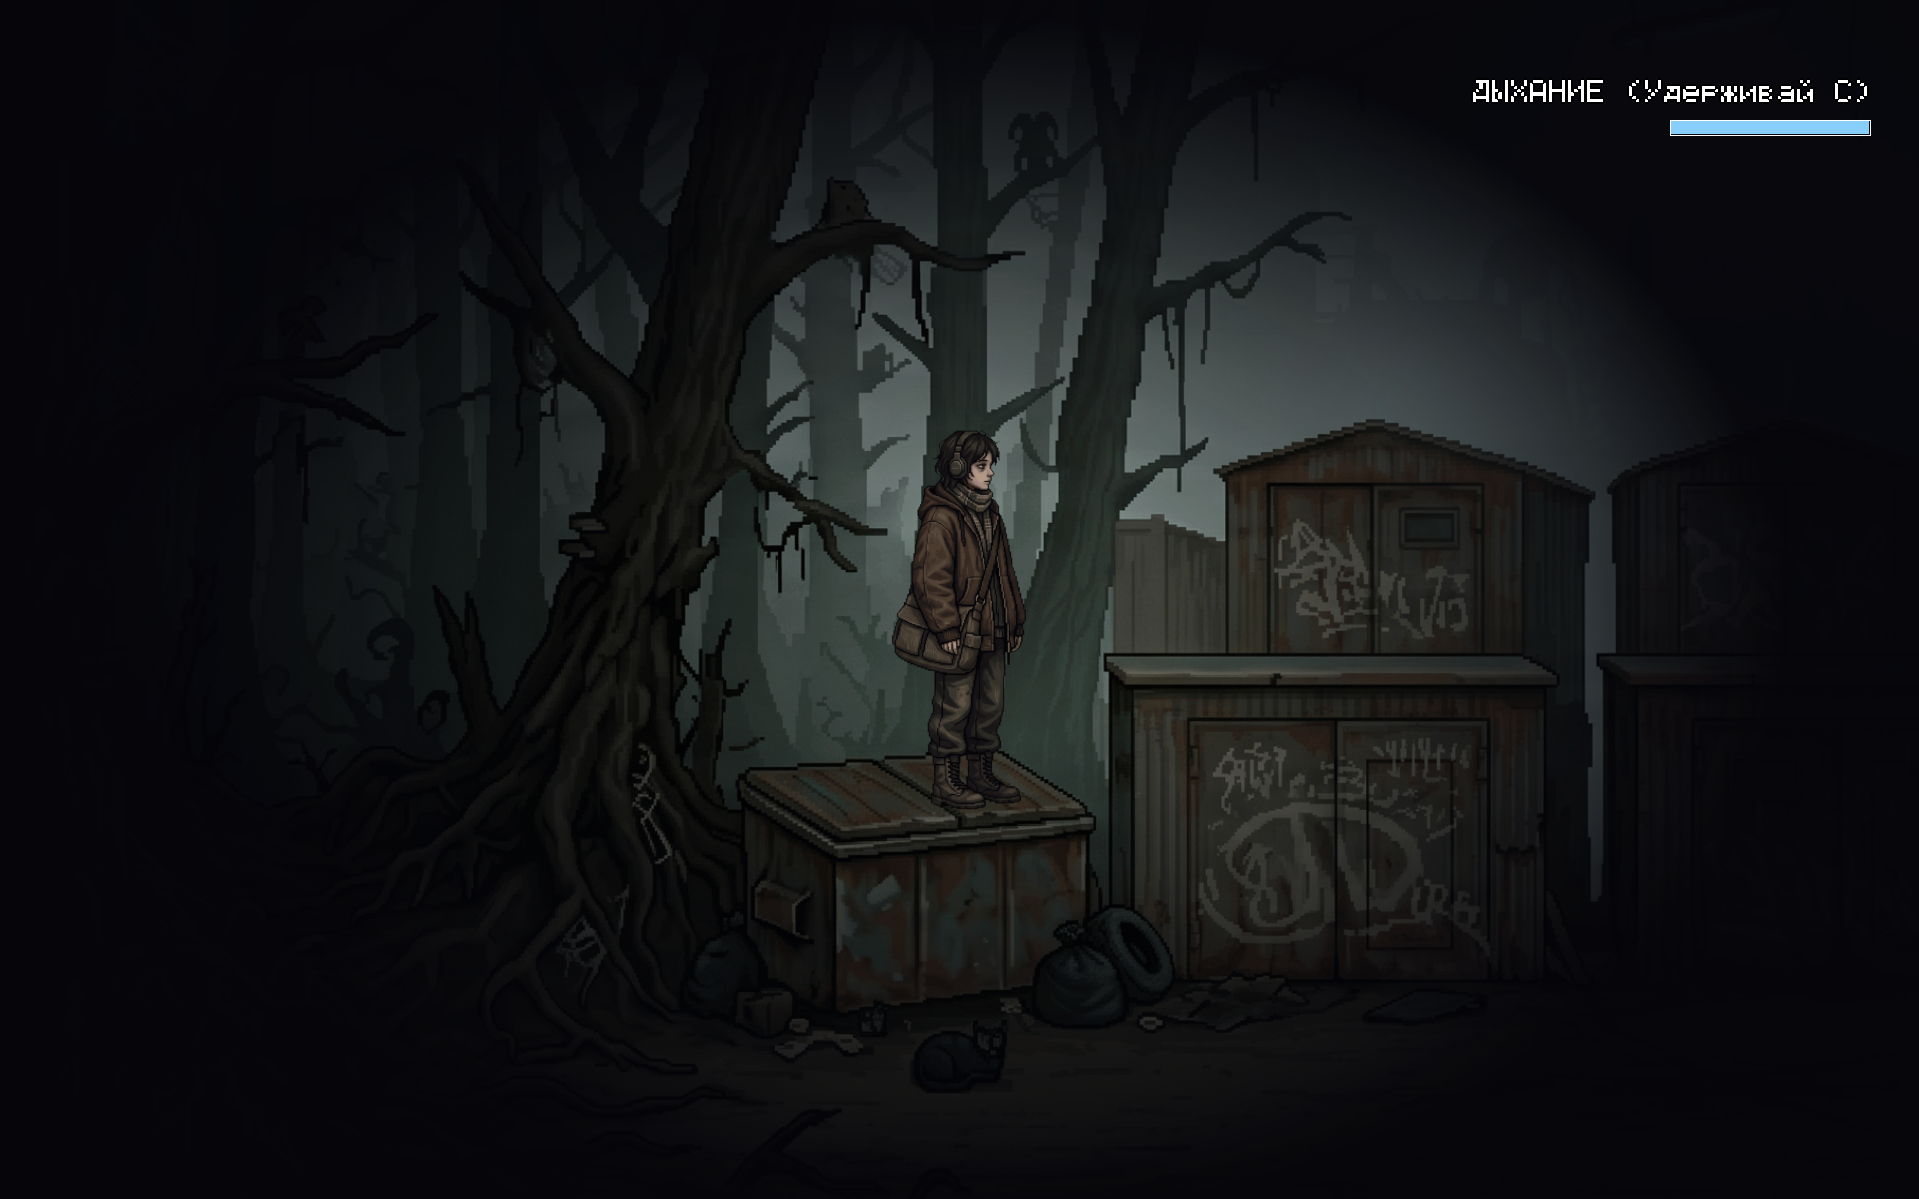
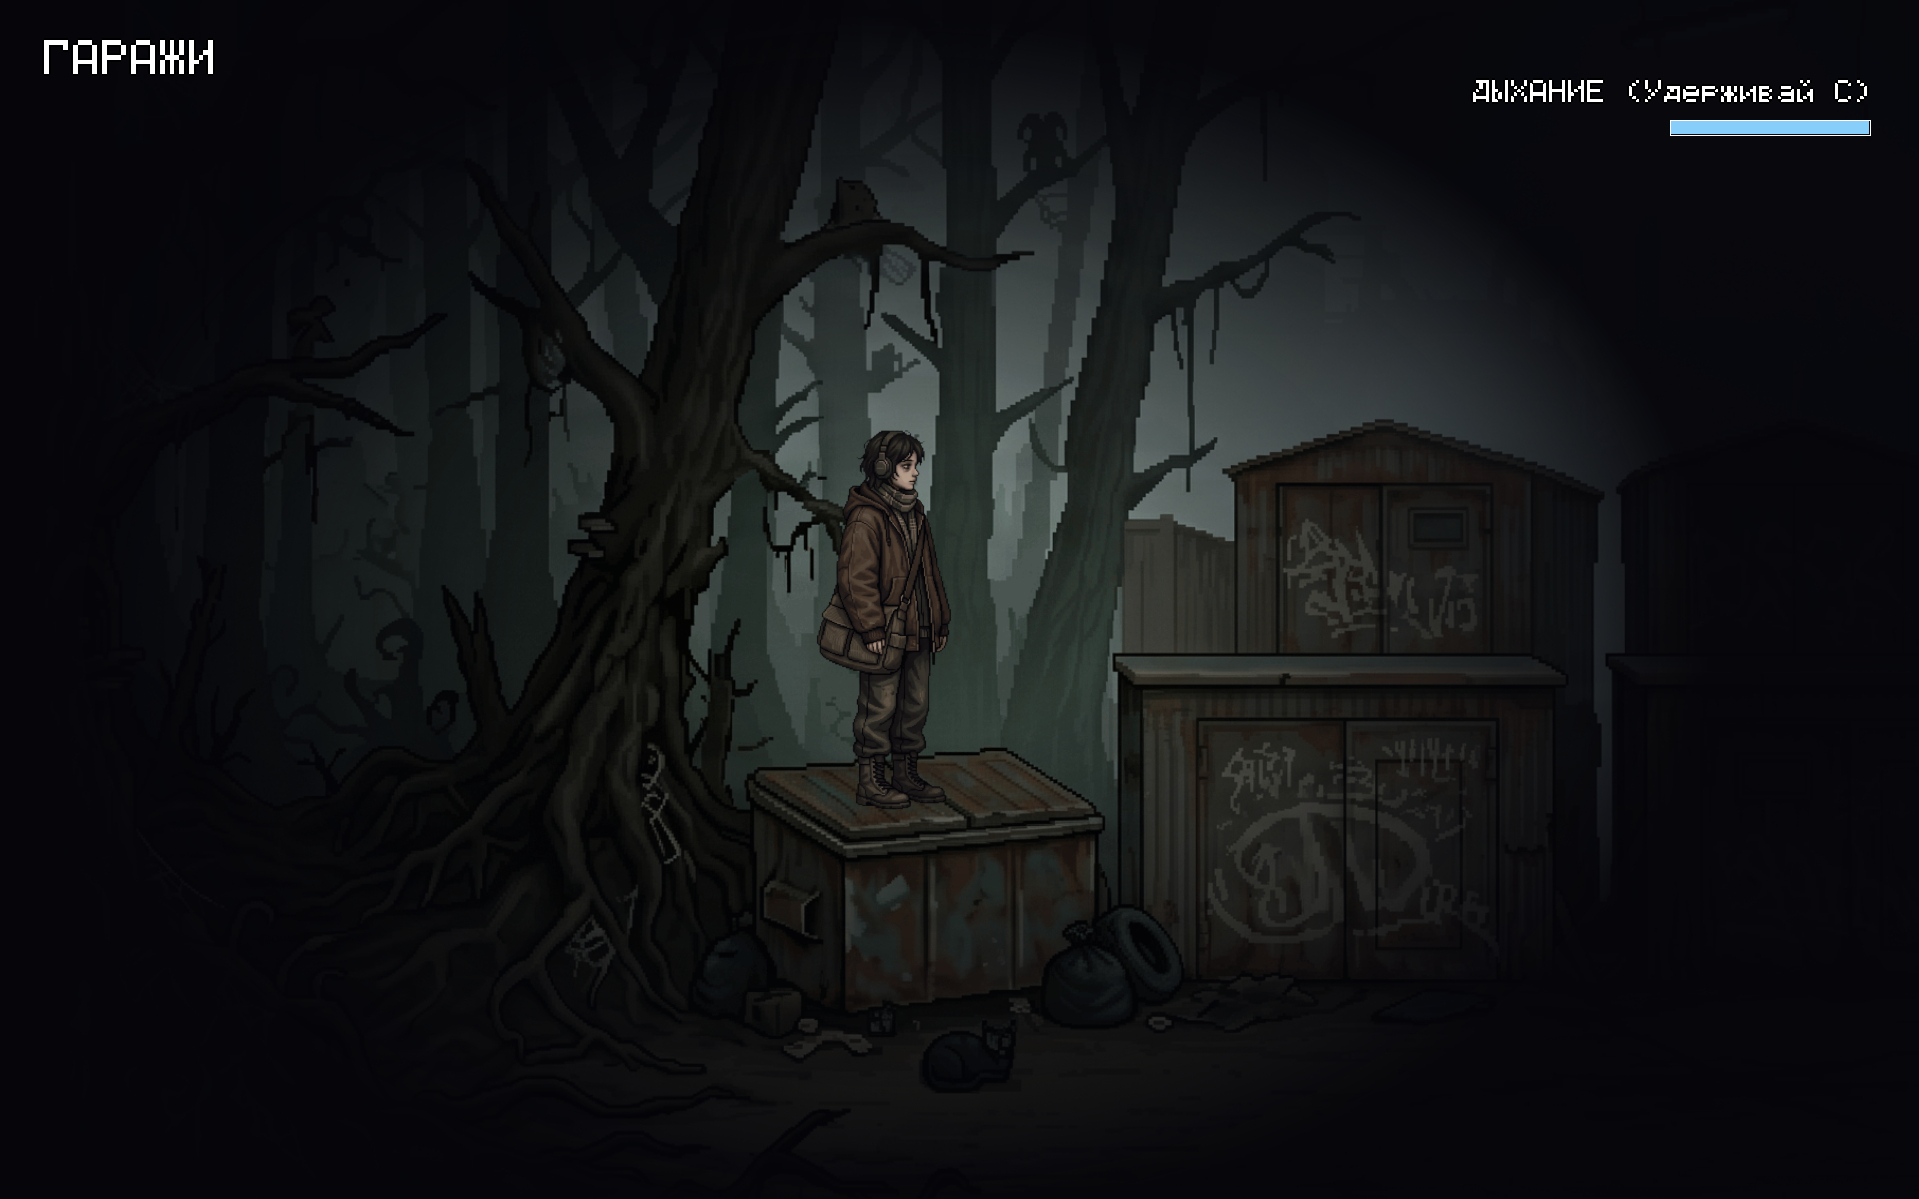
Фикс двойной надписи у сумки, добавление названия локации "Гаражи"

diff --git a/src/Rendering/GameRenderer.UI.cs b/src/Rendering/GameRenderer.UI.cs
@@ -37,6 +37,7 @@ namespace LikhoStation.src.Rendering
             else if (level.Name == "AbandonedStation") DrawOutlineText(g, "ЗАБРОШЕННАЯ СТАНЦИЯ", uiFont, locColor, 40, 40);
             else if (level.Name == "LifelessStreet") DrawOutlineText(g, "БЕЗЖИЗНЕННАЯ УЛИЦА", uiFont, locColor, 40, 40);
             else if (level.Name == "LadnyForest") DrawOutlineText(g, "ЛАДНЫЙ ЛЕС", uiFont, locColor, 40, 40);
+            else if (level.Name == "Garages") DrawOutlineText(g, "ГАРАЖИ", uiFont, locColor, 40, 40);
 
             if (!level.IsRealWorld) DrawOxygenUI(g, p);
 
@@ -194,13 +195,6 @@ namespace LikhoStation.src.Rendering
         private void DrawKitchenUI(Graphics g, Level level, float camX, float camY)
         {
             DrawOutlineText(g, "Кухня бабушки", new Font(pixelFont, 12), Brushes.White, 40, 40);
-
-            if (!level.IsItemPickedUp && level.IsNearItem)
-            {
-                var bagX = level.ActiveItemRect.X - camX;
-                var bagY = level.ActiveItemRect.Y - camY;
-                DrawOutlineText(g, "Взять сумку (E)", new Font(pixelFont, 10), Brushes.White, (int)bagX - 40, (int)bagY - 30);
-            }
         }
 
         /// <summary>
